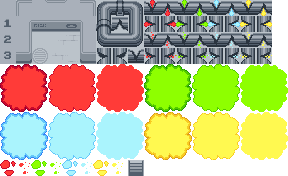
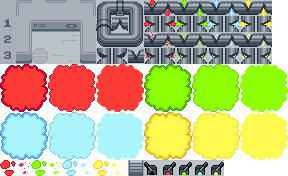
beta

Changed region(s): [[0.5, 0.9091, 0.7812, 1.0]]

diff --git a/game.js b/game.js
@@ -1,4 +1,4 @@
-mask = (name) => ({
+maskData = (name) => ({
 	y: MASKS.indexOf(name) * 2,
 });
 
@@ -109,11 +109,11 @@ function groundLayer() {
 
 			if (y === 30) {
 				t = wall(9);
-				pipeLayer.setCollisionData(vec2(x, y));
+				pl.setCollisionData(vec2(x, y));
 			}
 			if (y === 31) {
 				t = wall(3);
-				pipeLayer.setCollisionData(vec2(x, y));
+				pl.setCollisionData(vec2(x, y));
 			}
 			const data = new TileLayerData(t);
 
@@ -131,6 +131,9 @@ function gameInit() {
 	player.maskName = MASKS[0];
 	player.drawSize = vec2(1);
 
+	lever = new Lever(vec2(-2.5, 0), vec2(0.5), tile(vec2(10, 10), vec2(16), 0));
+	mask = new Mask(vec2(5, -5), vec2(0.5), tile(vec2(0, 0), vec2(8), 2));
+
 	pipeData = level.pipes.reduce(
 		(acc, pipe) => addPipe(acc, pipe.x, pipe.y, pipe.value),
 		emptyPipeData(),
@@ -141,9 +144,9 @@ function gameInit() {
 		emptyGasData(),
 	);
 
-	pipeLayer = pipeLayer(pipeData);
-	gasLayer = gasLayer(gasData);
-	groundLayer = groundLayer();
+	pl = pipeLayer(pipeData);
+	gl = gasLayer(gasData);
+	grl = groundLayer();
 
 	setCanvasFixedSize(vec2(512, 512));
 	// squareGasCloud = emitGas(vec2(6), gases.square);
@@ -151,8 +154,14 @@ function gameInit() {
 }
 
 function gameUpdate() {
-	if (keyWasPressed("Space"))
-		player.maskName = MASKS[MASKS.indexOf(player.maskName) + 1];
+	if (keyWasPressed("Space") && player.pos.distance(lever.pos) < 1)
+		lever.toggle()
+
+	gl.pos = vec2(-16).add(vec2(lever.on ? 0 : 1000))
+
+	if (keyWasPressed("Space") && player.pos.distance(mask.pos) < 1) {
+		player.maskName = player.maskName === "red" ? "none" : "red"
+	}
 }
 
 function gameRender() {
@@ -170,15 +179,42 @@ class GameObject extends EngineObject {
 	}
 }
 
+class Lever extends GameObject {
+	constructor(...args) {
+		super(...args);
+		this.renderOrder = -500
+		this.on = true
+	}
+	toggle() {
+		this.on = !this.on
+		this.tileInfo = tile(vec2(9, 10), vec2(16)).frame(this.on ? 1 : 0)
+	}
+}
+
+class Mask extends GameObject {
+	constructor(...args) {
+		super(...args);
+		this.renderOrder = -500
+		this.collideWithTile = true
+	}
+	update() {
+		this.tileInfo = vec2(0)
+	}
+}
+
 class Player extends GameObject {
 	constructor(...args) {
 		super(...args);
 		this.lastEmitTime = 0;
 		this.emitInterval = 0.1;
+		this.inGas = false
 	}
 
 	update() {
 		super.update();
+
+		this.inGas = gl.getData(this.pos.floor().add(vec2(16))).tile
+		if (lever.on && this.inGas && this.maskName != "red") this.pos = vec2(0)
 
 		const moveInput = keyDirection().clampLength(1).scale(0.075);
 		this.velocity = this.velocity.add(moveInput);
@@ -206,14 +242,14 @@ class Player extends GameObject {
 	}
 
 	idle() {
-		this.tileInfo = tile(vec2(0, mask(this.maskName).y), vec2(19, 21), 1).frame(
+		this.tileInfo = tile(vec2(0, maskData(this.maskName).y), vec2(19, 21), 1).frame(
 			((time * 4) % 2) | 0,
 		);
 	}
 
 	walk() {
 		this.tileInfo = tile(
-			vec2(0, mask(this.maskName).y + 1),
+			vec2(0, maskData(this.maskName).y + 1),
 			vec2(19, 21),
 			1,
 		).frame(((time * 6) % 4) | 0);
@@ -223,4 +259,5 @@ class Player extends GameObject {
 engineInit(gameInit, gameUpdate, null, gameRender, postGameRender, [
 	"pipes.png",
 	"gorm.png",
+	"masks.png",
 ]);

diff --git a/game-data.js b/game-data.js
@@ -44,6 +44,18 @@ wall = (index) =>
 		2 + 36,
 	][index];
 
+cloud = (x, y) => [
+		{ x: x, y: y, value: gas("red", 6) },
+		{ x: x + 1, y: y, value: gas("red", 7) },
+		{ x: x + 2, y: y, value: gas("red", 8) },
+		{ x: x, y: y + 1, value: gas("red", 3) },
+		{ x: x + 1, y: y + 1, value: gas("red", 4) },
+		{ x: x + 2, y: y + 1, value: gas("red", 5) },
+		{ x: x, y: y + 2, value: gas("red", 0) },
+		{ x: x + 1, y: y + 2, value: gas("red", 1) },
+		{ x: x + 2, y: y + 2, value: gas("red", 2) },
+]
+
 const level = {
 	pipes: [
 		{ x: 16, y: 14, value: pipe(false, false, 1) },
@@ -59,10 +71,12 @@ const level = {
 		{ x: 15, y: 20, value: pipe(false, false, 1) },
 		{ x: 16, y: 20, value: pipe(false, false, 6) },
 		{ x: 17, y: 20, value: pipe(false, false, 6) },
-		{ x: 18, y: 20, value: pipe(true, false, 0) },
+		{ x: 18, y: 20, value: pipe(false, false, 6) },
 		{ x: 19, y: 20, value: pipe(false, false, 6) },
 		{ x: 20, y: 20, value: pipe(false, false, 6) },
 		{ x: 21, y: 20, value: pipe(false, false, 6) },
+		{ x: 22, y: 20, value: pipe(true, false, 0) },
+		{ x: 23, y: 20, value: pipe(false, false, 6) },
 		{ x: 15, y: 14, value: pipe(false, false, 6) },
 		{ x: 17, y: 12, value: pipe(false, false, 4) },
 		{ x: 17, y: 11, value: pipe(false, false, 4) },
@@ -74,17 +88,10 @@ const level = {
 		{ x: 17, y: 5, value: pipe(false, false, 4) },
 	],
 	gases: [
-		{ x: 17, y: 19, value: gas("red", 0) },
-		{ x: 18, y: 19, value: gas("red", 1) },
-		{ x: 19, y: 19, value: gas("red", 2) },
-		{ x: 17, y: 18, value: gas("red", 3) },
-		{ x: 18, y: 18, value: gas("red", 4) },
-		{ x: 19, y: 18, value: gas("red", 5) },
-		{ x: 17, y: 17, value: gas("red", 6) },
-		{ x: 18, y: 17, value: gas("red", 7) },
-		{ x: 19, y: 17, value: gas("red", 8) },
+		...cloud(21, 17),
 	]
 };
+
 
 gases = {
 	square: {
